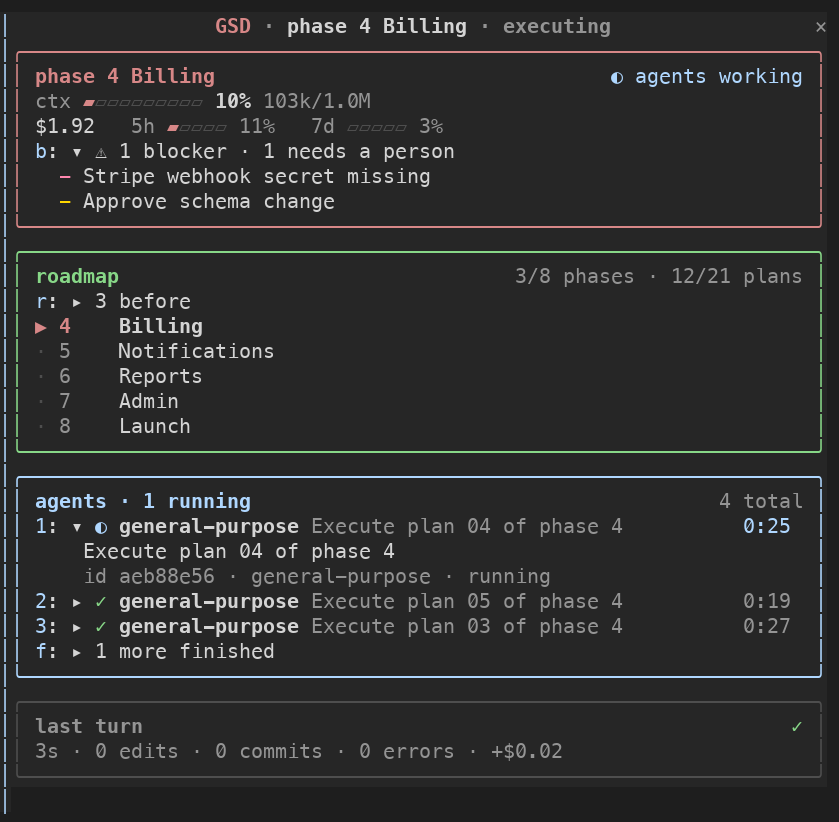
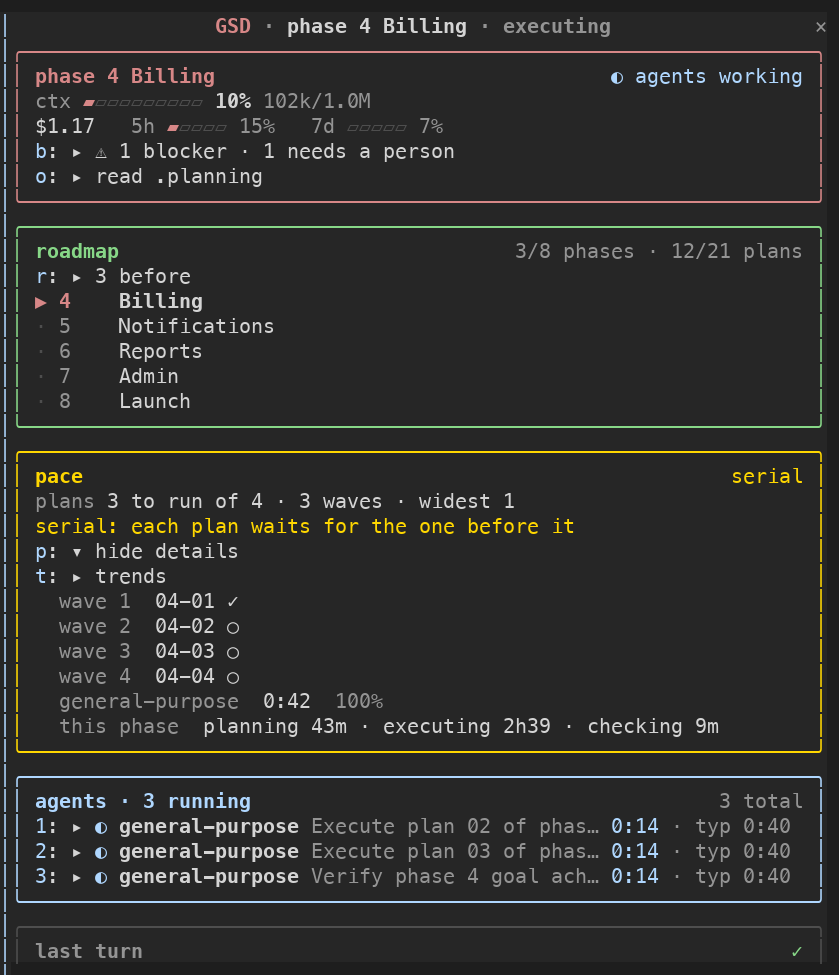
README: new demo animation and pane images for the pace box, history and trends

diff --git a/README.md b/README.md
@@ -4,7 +4,7 @@ A live dashboard for [GSD](https://github.com/open-gsd/gsd-core) projects, as a 
 marked, an agent tree with forks and sub-agents and live clocks, context and cost, work streams, and a built-in markdown
 reader for `.planning`. Read-only, no dependencies, and it draws nothing outside a GSD project.
 
-![Demo: the pane while two agents run, the blockers opened, then the markdown reader opening a phase plan and returning to the dashboard](docs/screenshots/demo.gif)
+![Demo: the pane while three agents run with their typical times beside the clocks, the pace details, the trends view, then the markdown reader opening a phase plan and returning to the dashboard](docs/screenshots/demo.gif)
 
 Install (Claude Code 2.1.287 or later):
 
@@ -84,18 +84,19 @@ main box does show them, for the one-glance view.
 ## Screenshots
 
 The seven below are from a made-up demo project (`acme-portal`). The four pane images are the pane's own output from a live
-Claude Code session with three background agents, drawn to PNG from the terminal text (cropped to the pane); the three
+Claude Code session with three background agents and a seeded made-up history, drawn to PNG from the terminal text (cropped to the pane); the three
 band images are from a terminal at least 16 rows tall.
 
-**The pane.** From the top: the main box (context, cost, limits, blockers), the roadmap with the current phase marked,
-the agents (one running, two finished, one folded behind `1 more finished`), the last turn, and the work streams.
+**The pane.** From the top: the main box (context, cost, limits, blockers), the roadmap with the current phase marked, the
+pace box (the plans left, their waves, and a "serial" note when each waits for the one before), the agents with a typical
+time beside each running clock (`typ 0:40`, from past runs), the last turn, and the work streams.
 
-![The live pane: main box, roadmap, agents, last turn and work streams](docs/screenshots/pane-overview.png)
+![The live pane: main box, roadmap, pace, agents with typical times, last turn and work streams](docs/screenshots/pane-overview.png)
 
-**The pane with rows opened.** Pressing `b` opened the blockers and `1` opened the first agent's full task, id and status.
-The same rows open by clicking their `▸`.
+**The pane with the pace details opened.** Pressing `p` opened the wave-by-wave plan list, the time by agent type, and this
+phase's time by stage. The other `▸` rows open the same way, by click or key.
 
-![The pane with the blockers and one agent row expanded](docs/screenshots/pane-expanded.png)
+![The pane with the pace details expanded: waves, time by agent type and this phase's time by stage](docs/screenshots/pane-expanded.png)
 
 **The markdown reader.** A phase plan opened from `o: ▸ read .planning`: the YAML header is hidden, tasks show as `✓` and `○`,
 and the two blue links are relative links that open the next plan and the roadmap in the same pane.
